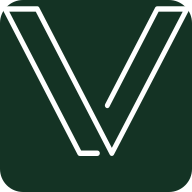
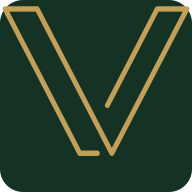
Add coming soon text and switch to gold brand color
Isotipo and text now render in the brand gold instead of white, and
a "COMING SOON" label was added below the logo using Archivo (a free
Google Font) as a placeholder for Vastago Grotesk, which is a paid
font we don't have a license for. Also add the OG image.

Changed region(s): [[0.0, 0.0312, 1.0, 0.8125]]

diff --git a/components/logo/VesselIsotipo.tsx b/components/logo/VesselIsotipo.tsx
@@ -10,7 +10,7 @@ export function VesselIsotipo(props: SVGProps<SVGSVGElement>) {
       {...props}
     >
       <path
-        fill="#fff"
+        fill="var(--color-brand-gold)"
         d="M788,42c.08-.21.15-.42.22-.63s.1-.29.14-.43.1-.37.14-.55.09-.37.13-.55.05-.31.07-.47.07-.44.09-.66,0-.27,0-.41,0-.48,0-.72c0,0,0-.09,0-.13s0-.2,0-.3l0-.67-.06-.53c0-.18,0-.36-.07-.54l-.12-.59c0-.16-.07-.31-.1-.46s-.11-.41-.18-.61-.09-.29-.14-.43-.14-.38-.21-.57l-.2-.45c-.07-.16-.15-.33-.24-.49s-.17-.32-.26-.48l-.25-.41-.33-.5c-.09-.12-.18-.23-.26-.35l-.39-.47-.3-.33c-.13-.14-.26-.28-.4-.41l-.39-.35-.37-.31-.52-.37-.22-.16-.1-.06c-.19-.12-.39-.23-.59-.34a3.07,3.07,0,0,1-.31-.17l-.59-.25c-.12-.05-.24-.11-.37-.15l-.52-.17-.46-.13-.45-.09-.55-.09-.41,0c-.2,0-.4,0-.6,0H655a10,10,0,0,0-8.78,5.66L438.26,433.66c-2.8,5.41-1.14,12.33,3.71,15.45a9.3,9.3,0,0,0,5.06,1.52,10,10,0,0,0,8.78-5.66l205-396.26H761.15L466,616,163.7,31.75c0-.1-.11-.18-.16-.28l-.32-.55c-.09-.15-.19-.29-.29-.43s-.19-.28-.3-.42-.25-.31-.38-.46l-.28-.33c-.14-.15-.29-.3-.44-.44s-.19-.19-.3-.28-.3-.26-.46-.38l-.35-.27-.44-.3c-.14-.09-.28-.18-.43-.26l-.41-.22c-.17-.09-.33-.17-.5-.24l-.39-.16-.54-.2-.41-.11a5.29,5.29,0,0,0-.54-.13c-.16,0-.32-.06-.49-.09l-.46-.06-.61,0-.28,0H21.24a10,10,0,0,0-8.77,5.66,12.44,12.44,0,0,0,0,11.3l311,601.14a10,10,0,0,0,8.78,5.65h73.59c5.6,0,10.14-5.06,10.14-11.31s-4.54-11.3-10.14-11.3H338.11L38.8,48.71H149.07L457.16,644.19a10,10,0,0,0,8.77,5.65h0a10,10,0,0,0,8.76-5.63L787.52,43.08l.05-.12c.11-.21.2-.42.3-.64Z"
       />
     </svg>

diff --git a/app/layout.tsx b/app/layout.tsx
@@ -1,5 +1,12 @@
 import type { Metadata } from "next";
+import { Archivo } from "next/font/google";
 import "./globals.css";
+
+const archivo = Archivo({
+  variable: "--font-archivo",
+  subsets: ["latin"],
+  weight: ["500", "600"],
+});
 
 const description =
   "Vessel Perfumes. Perfumería en Paraguay. Fragancias seleccionadas con una experiencia de compra cuidada.";
@@ -23,7 +30,7 @@ export const metadata: Metadata = {
 
 export default function RootLayout({ children }: LayoutProps<"/">) {
   return (
-    <html lang="es">
+    <html lang="es" className={archivo.variable}>
       <body>{children}</body>
     </html>
   );

diff --git a/app/page.tsx b/app/page.tsx
@@ -2,8 +2,11 @@ import { VesselIsotipo } from "@/components/logo/VesselIsotipo";
 
 export default function Home() {
   return (
-    <div className="flex min-h-screen items-center justify-center bg-brand-green">
+    <div className="flex min-h-screen flex-col items-center justify-center gap-6 bg-brand-green">
       <VesselIsotipo className="h-auto w-[clamp(120px,32vw,280px)]" />
+      <p className="text-[clamp(0.75rem,2.2vw,1rem)] font-medium tracking-[0.35em] text-brand-gold">
+        COMING SOON
+      </p>
     </div>
   );
 }

diff --git a/app/globals.css b/app/globals.css
@@ -5,4 +5,5 @@
   --color-brand-gold: #c59f55;
   /* Blanco de marca: no se usa en la holding page actual, reservado para uso futuro. */
   --color-brand-white: #ffffff;
+  --font-sans: var(--font-archivo);
 }
